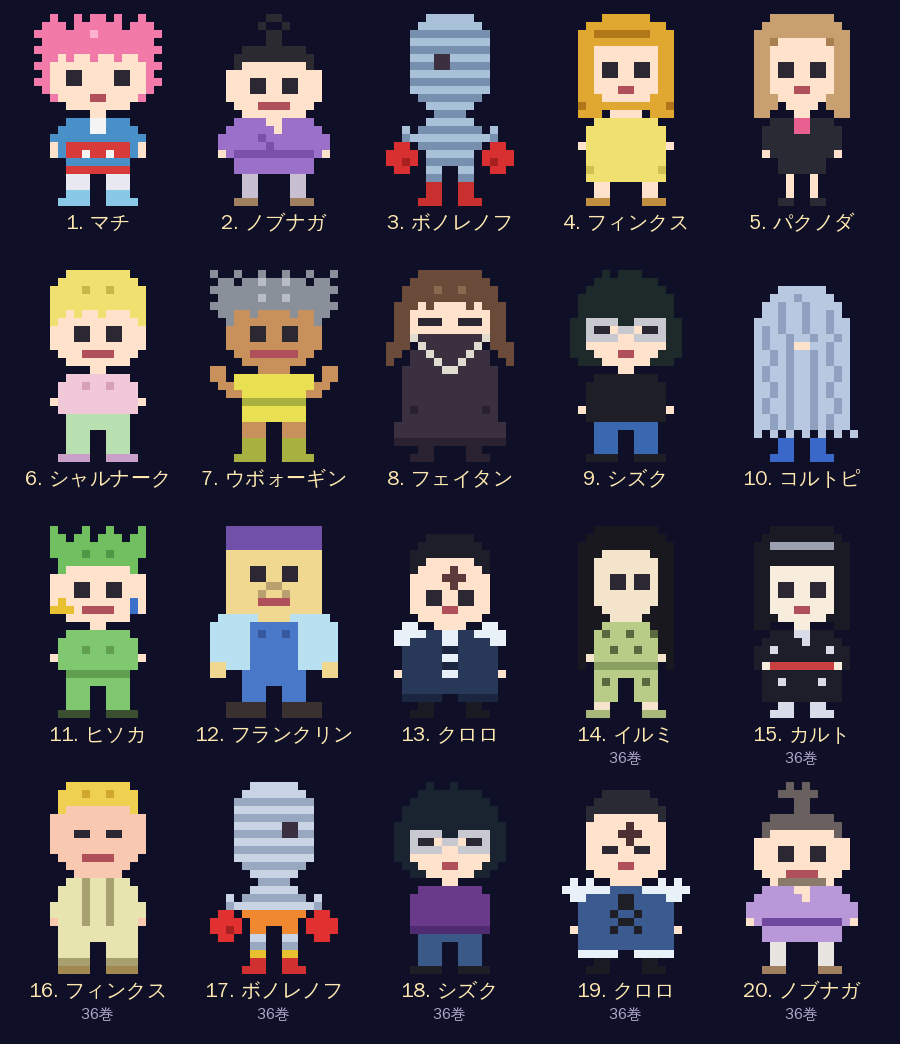
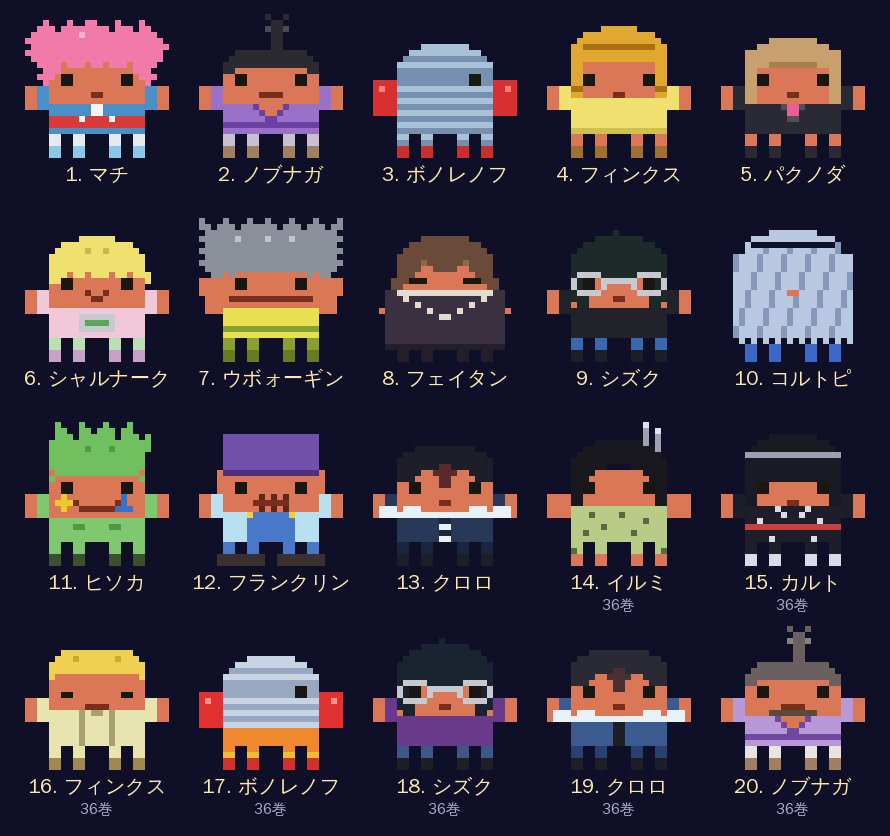
旅団ドット絵を作り直し：オレンジのキャラクター（Claude Code）の体に髪と服を着せて、20体に変身する形に。ページは押すとオレンジのキャラがとび上がって光り、下から上へ変身する（音つき・じゅんばんに へんしん・もとにもどる）。変身の GIF（henshin.gif）も追加
Claude-Session: https://claude.ai/code/session_01JaDYMhtLMkVrfWp8gdwK7r

diff --git a/chara/index.html b/chara/index.html
@@ -4,13 +4,13 @@
 <meta charset="utf-8">
 <meta name="viewport" content="width=device-width, initial-scale=1, viewport-fit=cover">
 <meta name="apple-mobile-web-app-capable" content="yes">
-<meta name="apple-mobile-web-app-title" content="旅団ドット絵">
-<title>旅団ドット絵</title>
-<link rel="apple-touch-icon" href="icon-180.png?v=1">
-<link rel="manifest" href="chara.webmanifest?v=1">
+<meta name="apple-mobile-web-app-title" content="旅団へんしん">
+<title>旅団へんしん</title>
+<link rel="apple-touch-icon" href="icon-180.png?v=2">
+<link rel="manifest" href="chara.webmanifest?v=2">
 <meta name="apple-mobile-web-app-status-bar-style" content="black-translucent">
 <meta name="theme-color" content="#05040d">
-<link rel="icon" href="icon-180.png?v=1">
+<link rel="icon" href="icon-180.png?v=2">
 <link rel="preconnect" href="https://fonts.googleapis.com">
 <link rel="preconnect" href="https://fonts.gstatic.com" crossorigin>
 <link href="https://fonts.googleapis.com/css2?family=DotGothic16&display=swap" rel="stylesheet">
@@ -22,87 +22,151 @@
   .wrap { max-width: 480px; margin: 0 auto; }
   h1 { font-size: 18px; font-weight: 400; margin: 0 0 4px; letter-spacing: .08em; text-align: center; }
   .sub { font-size: 11px; opacity: .6; margin: 0 0 14px; text-align: center; }
-  /* 大きく見る：えらんだ1体を大きく出す */
-  .stage { display: flex; flex-direction: column; align-items: center; padding: 14px 0 10px; background: linear-gradient(135deg, #2a1a30, #12101f); border: 2px solid var(--accent); border-radius: 10px; margin-bottom: 14px; }
-  .stage canvas { width: 128px; height: 192px; image-rendering: pixelated; }
-  .stage b { font-weight: 400; font-size: 17px; color: #ffcf8a; margin-top: 8px; }
-  .stage span { font-size: 11px; color: var(--dim); min-height: 1em; }
+  /* 変身する舞台：オレンジのキャラクターが光って、えらんだ1体に変わる */
+  .stage { display: flex; flex-direction: column; align-items: center; padding: 10px 0 12px; background: linear-gradient(135deg, #2a1a30, #12101f); border: 2px solid var(--accent); border-radius: 10px; margin-bottom: 14px; }
+  .stage canvas { width: 240px; height: 200px; image-rendering: pixelated; cursor: pointer; }
+  .stage b { font-weight: 400; font-size: 17px; color: #ffcf8a; margin-top: 4px; min-height: 1.3em; }
+  .stage span { font-size: 11px; color: var(--dim); min-height: 1.2em; }
+  .btns { display: flex; gap: 8px; margin-top: 10px; }
+  .btns button { font-family: inherit; font-size: 13px; border: none; border-radius: 99px; padding: 6px 14px; cursor: pointer; }
+  #auto { background: var(--accent); color: #05040d; }
+  #back { background: #2a2540; color: var(--fg); }
   /* 一覧：4つずつ並べる */
   .grid { display: grid; grid-template-columns: repeat(4, 1fr); gap: 12px 6px; padding: 14px 8px 10px; background: var(--card); border: 2px solid var(--line); border-radius: 10px; }
   .grid button { display: flex; flex-direction: column; align-items: center; gap: 4px; background: none; border: none; padding: 4px 0; color: var(--fg); font-family: inherit; cursor: pointer; border-radius: 8px; }
   .grid button.on { background: #2a2540; }
-  .grid canvas { width: 48px; height: 72px; image-rendering: pixelated; }
+  .grid canvas { width: 60px; height: 60px; image-rendering: pixelated; }
   .grid small { font-size: 10px; line-height: 1.2; text-align: center; }
   .grid small i { font-style: normal; color: var(--dim); display: block; }
 </style>
 </head>
 <body>
 <div class="wrap">
-  <h1>旅団ドット絵</h1>
-  <p class="sub">12巻・36巻の表紙から 20体（押すと大きく見られる）</p>
-  <div class="stage"><canvas id="big" width="16" height="26"></canvas><b id="bigName"></b><span id="bigVol"></span></div>
+  <h1>旅団へんしん</h1>
+  <p class="sub">オレンジのキャラクターが 12巻・36巻の表紙の20体に へんしん</p>
+  <div class="stage">
+    <canvas id="big" width="48" height="40"></canvas>
+    <b id="bigName"></b><span id="bigVol"></span>
+    <div class="btns"><button id="auto">じゅんばんに へんしん</button><button id="back">もとにもどる</button></div>
+  </div>
   <div class="grid" id="grid"></div>
 </div>
 <script>
-// 1文字＝1ドット（横16×縦24）。'.'＝透明、E＝目（まばたきする）
+// 1文字＝1ドット（横24×縦24）。オレンジのキャラクター（横12×縦8）を2倍にした体に、髪と服を着せている
+// '.'＝透明、O＝オレンジの体、E＝目（まばたきする）
+const MASCOT = {"p":{"O":"#d97757","E":"#1a1612"},"m":["........................","........................","........................","........................","........................","........................","........................","........................","....OOOOOOOOOOOOOOOO....","....OOOOOOOOOOOOOOOO....","....OOEEOOOOOOOOEEOO....","....OOEEOOOOOOOOEEOO....","OOOOOOOOOOOOOOOOOOOOOOOO","OOOOOOOOOOOOOOOOOOOOOOOO","OOOOOOOOOOOOOOOOOOOOOOOO","OOOOOOOOOOOOOOOOOOOOOOOO","....OOOOOOOOOOOOOOOO....","....OOOOOOOOOOOOOOOO....","....OOOOOOOOOOOOOOOO....","....OOOOOOOOOOOOOOOO....","....OO..OO....OO..OO....","....OO..OO....OO..OO....","....OO..OO....OO..OO....","....OO..OO....OO..OO...."]};
 const CH = [
-{"n":"マチ","v":12,"p":{"B":"#4a90c8","E":"#2b2733","F":"#8ac8e8","H":"#f27aa8","M":"#b0505a","P":"#e8e8f0","R":"#d83a3a","S":"#ffe2cc","W":"#f4f4f4","h":"#ffb0cc"},"m":["..H..H.HH.H..H..",".HHH.HHHHHH.HHH.","HHHHHHHhHHHHHHHH",".HHHHHHHHHHHHHH.","HHHHHHHHHHHHHHHH",".HHSHSSHSSHSSHH.","HHSSSSSSSSSSSSHH",".HSSEESSSSEESSH.","HHSSEESSSSEESSHH",".HSSSSSSSSSSSSH.","..HSSSSMMSSSSH..","....SSSSSSSS....",".......SS.......","....BBBWWBBB....","...BBBBWWBBBB...","..BBBBBBBBBBBB..","..SBRRRRRRRRBS..","..SBRRWRRWRRBS..","....BBBBBBBB....","....RRRRRRRR....","....PPP..PPP....","....PPP..PPP....","....FFF..FFF....","...FFFF..FFFF..."]},
-{"n":"ノブナガ","v":12,"p":{"B":"#9a70c8","E":"#2b2733","F":"#a08060","H":"#2a2a30","M":"#b0505a","P":"#c8c0d0","S":"#ffe2cc","b":"#7a50a8"},"m":[".......HH.......","......H..H......",".......HH.......",".......HH.......","....HHHHHHHH....","...HHHHHHHHHH...","...HSSSSSSSSH...","..SSSSSSSSSSSS..","..SSSEESSEESSS..","..SSSEESSEESSS..","..SSSSSSSSSSSS..","...SSSMMMMSSS...","....SSSSSSSS....","...BBBBSSBBBB...","..BBBBBBSBBBBB..",".BBBBBbBBBBBBBB.",".BBBBBBbBBBBBBB.",".SBbbbbbbbbbbBS.","...BBBBBBBBBB...","...BBBBBBBBBB...","....PP....PP....","....PP....PP....","....PP....PP....","...FFF....FFF..."]},
-{"n":"ボノレノフ","v":12,"p":{"F":"#c83030","O":"#3a3040","R":"#d83030","X":"#a8c0d8","r":"#a82020","x":"#7890b0"},"m":[".....XXXXXX.....","....XXXXXXXX....","...xxxxxxxxxx...","...XXXXXXXXXX...","...xxxxxxxxxx...","...XXXOOXXXXX...","...xxxOOxxxxx...","...XXXXXXXXXX...","...xxxxxxxxxx...","...XXXXXXXXXX...","....xxxxxxxx....",".....XXXXXX.....","......xxxx......",".....XXXXXX.....","..X.xxxxxxxx.X..","..xXXXXXXXXXXx..",".RR.xxxxxxxx.RR.","RRRR.XXXXXX.RRRR","RRrR.xxxxxx.RrRR",".RR..XX..XX..RR.",".....xx..xx.....",".....FF..FF.....",".....FF..FF.....","....FFF..FFF...."]},
-{"n":"フィンクス","v":12,"p":{"B":"#f0e070","E":"#2b2733","F":"#c09040","G":"#e0a830","M":"#b0505a","S":"#ffe2cc","b":"#d0c050","g":"#b07818"},"m":[".....GGGGGG.....","...GGGGGGGGGG...","..GGgggggggGGG..","..GGGGGGGGGGGG..","..GGSSSSSSSSGG..","..GGSSSSSSSSGG..","..GGSEESSEESGG..","..GGSEESSEESGG..","..GGSSSSSSSSGG..","..GGSSSMMSSSGG..","..GGGSSSSSSGGG..","..gGGGGGGGGGGg..","..GGG.SSSS.GGG..","....BBBBBBBB....","...BBBBBBBBBB...","...BBBBBBBBBB...","..SBBBBBBBBBBS..","...BBBBBBBBBB...","...BBBBBBBBBB...","...bBBBBBBBBb...","...BBBBBBBBBB...","....SS....SS....","....SS....SS....","...FFF....FFF..."]},
-{"n":"パクノダ","v":12,"p":{"B":"#2a2a34","E":"#2b2733","F":"#2a2a34","H":"#c8a070","M":"#b0505a","R":"#e86090","S":"#ffe2cc","h":"#a8804f"},"m":["....HHHHHHHH....","...HHHHHHHHHH...","..HHHHHHHHHHHH..","..HHhSSSSSShHH..","..HHSSSSSSSSHH..","..HHSSSSSSSSHH..","..HHSEESSEESHH..","..HHSEESSEESHH..","..HHSSSSSSSSHH..","..HHSSSMMSSSHH..","..HHHSSSSSSHHH..","..HHH.SSSS.HHH..","..HH...SS...HH..","....BBBRRBBB....","...BBBBRRBBBB...","...BBBBBBBBBB...","...BBBBBBBBBB...","...SBBBBBBBBS...",".....BBBBBB.....",".....BBBBBB.....","......S..S......","......S..S......","......S..S......",".....FF..FF....."]},
-{"n":"シャルナーク","v":12,"p":{"B":"#f0c8d8","E":"#2b2733","F":"#c8a0c8","H":"#f0e070","M":"#b0505a","P":"#b8e0b0","S":"#ffe2cc","b":"#d8a0b8","h":"#c8b848"},"m":["....HHHHHHHH....","...HHHHHHHHHH...","..HHHHhHHhHHHH..","..HHHHHHHHHHHH..","..HHHHHHHHHHHH..","..HHSHSSHSSSHH..","..HSSSSSSSSSSH..","..SSSEESSEESSS..","..SSSEESSEESSS..","..SSSSSSSSSSSS..","...SSSMMMMSSS...","....SSSSSSSS....",".......SS.......","....BBBBBBBB....","...BBBbBBbBBB...","...BBBBBBBBBB...","..SBBBBBBBBBBS..","...BBBBBBBBBB...","....PPPPPPPP....","....PPPPPPPP....","....PPP..PPP....","....PPP..PPP....","....PPP..PPP....","...FFFF..FFFF..."]},
-{"n":"ウボォーギン","v":12,"p":{"B":"#e8e050","E":"#2b2733","F":"#a8b040","H":"#8a909a","M":"#b0505a","S":"#c8905a","b":"#a8b040","h":"#b8bcc4"},"m":["H..H..H..H..H..H",".HH.HHhHHhHH.HH.","HHHHHHHHHHHHHHHH",".HHHHHhHHhHHHHH.","HHHHHHHHHHHHHHHH",".HHSSHSSSSHSSHH.","..HSSSSSSSSSSH..","..SSSEESSEESSS..","..SSSEESSEESSS..","..SSSSSSSSSSSS..","...SSMMMMMMSS...","....SSSSSSSS....","SS....SSSS....SS","SS.BBBBBBBBBB.SS",".SSBBBBBBBBBBSS.","..SSBBBBBBBBSS..","....bbbbbbbb....","....BBBBBBBB....","....BBBBBBBB....","....SSS..SSS....","....SSS..SSS....","....bbb..bbb....","....FFF..FFF....","...FFFF..FFFF..."]},
-{"n":"フェイタン","v":12,"p":{"B":"#3a3040","E":"#2b2733","F":"#2a2230","H":"#6a4a38","S":"#ffe2cc","W":"#e0dcd0","b":"#2a2230","h":"#8a6a50"},"m":["....HHHHHHHH....","...HHHHHHHHHH...","..HHHHhHHhHHHH..","..HHHHHHHHHHHH..",".HHHSHSSSSHSHHH.",".HHSSSSSSSSSSHH.",".HHSEEESSEEESHH.",".HHSSSSSSSSSSHH.",".HHWBBBBBBBBWHH.","HHH.WBBBBBBW.HHH","HH.BBWBBBBWBB.HH","H..BBBWBBWBBB..H","..BBBBBWWBBBBB..","..BBBBBBBBBBBB..","..BBBBBBBBBBBB..","..BBBBBBBBBBBB..","..BBBBBBBBBBBB..","..BbBBBBBBBBbB..","..BBBBBBBBBBBB..",".BBBBBBBBBBBBBB.",".BBBBBBBBBBBBBB.",".bbbbbbbbbbbbbb.","....FF....FF....","...FFF....FFF..."]},
-{"n":"シズク","v":12,"p":{"B":"#1e1e26","E":"#2b2733","F":"#1e1e26","G":"#c8c8d0","H":"#1e2a2a","M":"#b0505a","P":"#3a68b0","S":"#ffe2cc"},"m":[".....H.HHH......","....HHHHHHHH....","...HHHHHHHHHH...","..HHHHHHHHHHHH..","..HHHHHHHHHHHH..","..HHHHHHHHHHHH..",".HHGGGGHHGGGGHH.",".HHGEESGGSEEGHH.",".HHGGGGSSGGGGHH.",".HHSSSSSSSSSSHH.",".HHHSSSMMSSSHHH.","..HHHSSSSSSHHH..",".......SS.......","....BBBBBBBB....","...BBBBBBBBBB...","...BBBBBBBBBB...","...BBBBBBBBBB...","..SBBBBBBBBBBS..","...BBBBBBBBBB...","....PPPPPPPP....","....PPP..PPP....","....PPP..PPP....","....PPP..PPP....","...FFFF..FFFF..."]},
-{"n":"コルトピ","v":12,"p":{"F":"#3a68c8","H":"#b8c8e0","S":"#ffe2cc","h":"#90a0c0"},"m":["................","................",".....HHHHHH.....","....HHHhHHHH....","...HHhHHhHHHH...","...HHhHHhHHhH...","..HHHhHHhHHhHH..","..HhHhHHhHHhHH..","..HhHHhHHhHHhH..","..HhHHhSSHHhHH..","..HHhHhHHhHhHH..","..HHhHhHHhHhHH..","..HhHHhHHhHHhH..","..HhHHhHHhHHhH..","..HHhHhHHhHhHH..","..HHhHhHHhHhHH..","..HhHHhHHhHHhH..","..HhHHhHHhHHhH..","..HHhHhHHhHhHH..","..HHhHhHHhHhHH..","..H.H.H.H.H.H.H.",".....FF..FF.....",".....FF..FF.....","....FFF..FFF...."]},
-{"n":"ヒソカ","v":12,"p":{"B":"#80c870","E":"#2b2733","F":"#3a5030","H":"#70c060","M":"#b0505a","S":"#ffe2cc","T":"#3a70c8","Y":"#e8c030","b":"#60a050","h":"#509848"},"m":["..H...H..H...H..","..HH.HH.HHH.HH..","..HHHHHHHHHHHH..","..HHHHhHHhHHHH..","...HHHHHHHHHH...","...HSSSSSSSSH...","..SSSSSSSSSSSS..","..SSSEESSEESSS..","..SSSEESSEESSS..","..SYSSSSSSSSTS..","..YYYSMMMMSSTS..","....SSSSSSSS....",".......SS.......","....BBBBBBBB....","...BBBBBBBBBB...","...BBBbBBbBBB...","..SBBBBBBBBBBS..","...BBBBBBBBBB...","....bbbbbbbb....","....BBBBBBBB....","....BBB..BBB....","....BBB..BBB....","....BBB..BBB....","...FFFF..FFFF..."]},
-{"n":"フランクリン","v":12,"p":{"E":"#2b2733","F":"#3a3030","H":"#7050a8","J":"#b8e0f0","M":"#b0505a","P":"#4a78c8","S":"#f0d890","X":"#b8a070","p":"#3a58a0"},"m":["..HHHHHHHHHHHH..","..HHHHHHHHHHHH..","..HHHHHHHHHHHH..","..SSSSSSSSSSSS..","..SSSSSSSSSSSS..","..SSSEESSEESSS..","..SSSEESSEESSS..","..SSSSSXXSSSSS..","..SSSSXSSXSSSS..","..SSSSMMMMSSSS..","..SSSSSSSSSSSS..",".JJJJJSSSSJJJJJ.","JJJJJPPPPPPJJJJJ","JJJJJPpPPpPJJJJJ","JJJJJPPPPPPJJJJJ","JJJJJPPPPPPJJJJJ","JJJJJPPPPPPJJJJJ","SSJJJPPPPPPJJJSS","SS..PPPPPPPP..SS","....PPPPPPPP....","....PPP..PPP....","....PPP..PPP....","..FFFFF..FFFFF..","..FFFFF..FFFFF.."]},
-{"n":"クロロ","v":12,"p":{"B":"#283858","E":"#2b2733","F":"#1a1a22","H":"#1e1e2a","M":"#b0505a","S":"#ffe2cc","W":"#e8f0f8","X":"#5a3a3a","b":"#1a2640"},"m":["................",".....HHHHHH.....","....HHHHHHHH....","...HHHHHHHHHH...","...HHSSSSSSHH...","...HSSSSXSSSH...","...SSSSXXXSSS...","...SSSSSXSSSS...","...SSEESSEESS...","...SSEESSEESS...","...SSSSMMSSSS...","....SSSSSSSS....","..WW..SSSS..WW..",".WWWWBBWWBBWWWW.",".WWBBBBWWBBBBWW.","..BBBBBbbBBBBB..","..BBBBBWWBBBBB..","..BBBBBbbBBBBB..",".SBBBBBWWBBBBBS.","..BBBBBBBBBBBB..","..BBBBBBBBBBBB..","..bbbbb..bbbbb..","....FF....FF....","...FFF....FFF..."]},
-{"n":"イルミ","v":36,"p":{"B":"#b8cc88","E":"#2b2733","F":"#a8b878","H":"#18181e","S":"#f4e4cc","X":"#5a6a40","b":"#8aa060"},"m":["....HHHHHHHH....","...HHHHHHHHHH...","..HHHHHHHHHHHH..","..HHHSSSSSSHHH..","..HHSSSSSSSSHH..","..HHSSSSSSSSHH..","..HHSSEESEESHH..","..HHSSEESEESHH..","..HHSSSSSSSSHH..","..HHSSSSSSSSHH..","..HHHSSSSSSHHH..","..HHHHSSSSHHHH..","..HHHBBBBBBHHH..","..HHBXBBXBBXHH..","..HHBBBBBBBBHH..","..HHBBXBBXBBHH..","..HSBBBBBBBBSH..","..H.bbbbbbbb.H..","....BBBBBBBB....","....BXB..BXB....","....BBB..BBB....","....BBB..BBB....","....SS....SS....","...FFF....FFF..."]},
-{"n":"カルト","v":36,"p":{"B":"#1e1e2a","E":"#2b2733","F":"#d8dce8","H":"#1a1a24","M":"#b0505a","R":"#c84040","S":"#f8ecdc","X":"#d8dce8","h":"#9aa0b0"},"m":["....HHHHHHHH....","...HHHHHHHHHH...","..HHhhhhhhhhHH..","..HHHHHHHHHHHH..","..HHHHHHHHHHHH..","..HHSSSSSSSSHH..","..HHSSSSSSSSHH..","..HHSEESSEESHH..","..HHSEESSEESHH..","..HHSSSSSSSSHH..","..HHSSSMMSSSHH..","..HHHSSSSSSHHH..","..HH...SS...HH..","....BBBXXBBB....","...BBBBBXBBBB...","..BBXBBBBBBXBB..","..BBBBBBBBBBBB..","..BSRRRRRRRRSB..","...BBBBBBBBBB...","...BBXBBBBXBB...","...BBBBBBBBBB...","...BBBBBBBBBB...",".....FF..FF.....","....FFF..FFF...."]},
-{"n":"フィンクス","v":36,"p":{"B":"#e8e4b0","E":"#2b2733","F":"#a08850","H":"#f0d050","M":"#b0505a","S":"#f8c8b0","b":"#a8a070","h":"#d0a830"},"m":["....HHHHHHHH....","...HHHhHHhHHH...","...HHHHHHHHHH...","...HSSSSSSSSH...","..SSSSSSSSSSSS..","..SSSSSSSSSSSS..","..SSSEESSEESSS..","..SSSSSSSSSSSS..","..SSSSSSSSSSSS..","...SSSMMMMSSS...","....SSSSSSSS....",".....SSSSSS.....","....BBbBBbBB....","...BBBbBBbBBB...","...BBBbBBbBBB...","..BBBBbBBbBBBB..","..BBBBbBBbBBBB..","..SBBBbBBbBBBS..","...BBBBBBBBBB...","...BBBBBBBBBB...","...BBBB..BBBB...","...BBBB..BBBB...","...bbbb..bbbb...","...FFFF..FFFF..."]},
-{"n":"ボノレノフ","v":36,"p":{"F":"#e8c030","O":"#3a3040","P":"#f08830","R":"#e03030","X":"#c8d4e4","f":"#d03030","r":"#a82020","x":"#98a8c0"},"m":[".....XXXXXX.....","....XXXXXXXX....","...xxxxxxxxxx...","...XXXXXXXXXX...","...xxxxxxxxxx...","...XXXXXXOOXX...","...xxxxxxOOxx...","...XXXXXXXXXX...","...xxxxxxxxxx...","...XXXXXXXXXX...","....xxxxxxxx....",".....XXXXXX.....","......xxxx......",".....XXXXXX.....","..X.xxxxxxxx.X..","..xXXXXXXXXXXx..",".RR.PPPPPPPP.RR.","RRRR.PPPPPP.RRRR","RRrR.PP..PP.RRRR",".RR..XX..XX..RR.",".....xx..xx.....",".....FF..FF.....",".....ff..ff.....","....fff..fff...."]},
-{"n":"シズク","v":36,"p":{"B":"#6a3a8a","E":"#2b2733","F":"#1e1e26","G":"#c8c8d0","H":"#1a2430","M":"#b0505a","P":"#3a5888","S":"#ffe2cc","b":"#502a70"},"m":[".....H..H.......","....HHHHHHHH....","...HHHHHHHHHH...","..HHHHHHHHHHHH..","..HHHHHHHHHHHH..",".HHHHHHHHHHHHHH.",".HHGGGGHHGGGGHH.",".HHGEESGGSEEGHH.",".HHGGGGSSGGGGHH.",".HHSSSSSSSSSSHH.","..HHSSSMMSSSHH..","...HHSSSSSSHH...",".......SS.......","....BBBBBBBB....","...BBBBBBBBBB...","...BBBBBBBBBB...","...BBBBBBBBBB...","...BBBBBBBBBB...","...bbbbbbbbbb...","....PPPPPPPP....","....PPP..PPP....","....PPP..PPP....","....PPP..PPP....","...FFFF..FFFF..."]},
-{"n":"クロロ","v":36,"p":{"B":"#3a5a90","E":"#2b2733","F":"#1a1a22","H":"#2a2a34","K":"#1e1e26","M":"#b0505a","S":"#ffe2cc","W":"#e8f0f8","X":"#4a3030"},"m":["................",".....HHHHHH.....","....HHHHHHHH....","...HHHHHHHHHH...","...HSSSSSSSSH...","...SSSSSXSSSS...","...SSSSXXXSSS...","...SSSSSXSSSS...","...SSEESSEESS...","...SSSSSSSSSS...","...SSSSMMSSSS...","....SSSSSSSS....",".W.W..SSSS..W.W.","WWWWWWBBBBWWWWWW",".WWBBBBKKBBBBWW.","..BBBBBKKBBBBB..","..BBBBKBBKBBBB..","..BBBBBKKBBBBB..",".SBBBBKBBKBBBBS.","..BBBBBBBBBBBB..","..BBBBBBBBBBBB..","..WWWWW..WWWWW..","....FF....FF....","...FFF....FFF..."]},
-{"n":"ノブナガ","v":36,"p":{"B":"#b898d8","E":"#2b2733","F":"#a08060","H":"#6a6060","M":"#b0505a","P":"#e8e4e0","S":"#ffe2cc","X":"#8a7a6a","b":"#7048a0"},"m":["......H.H.......",".....HHHHH......",".......HH.......",".......HH.......","....HHHHHHHH....","...HHHHHHHHHH...","...HSSSSSSSSH...","..SSSSSSSSSSSS..","..SSSEESSEESSS..","..SSSEESSEESSS..","..SSSSSSSSSSSS..","...SSSMMMMSSS...","....SXXXXXXS....","...BBBBSSBBBB...","..BBBBBBSBBBBB..",".BBBBBBBBBBBBBB.",".BBBBBBBBBBBBBB.",".SBbbbbbbbbbbBS.","...BBBBBBBBBB...","...BBBBBBBBBB...","....PP....PP....","....PP....PP....","....PP....PP....","...FFF....FFF..."]}
+{"n":"マチ","v":12,"p":{"B":"#4a90c8","E":"#1a1612","F":"#8ac8e8","H":"#f27aa8","M":"#7a2e1e","O":"#d97757","P":"#e8e8f0","R":"#d83a3a","W":"#f4f4f4","h":"#ffb0cc"},"m":["........................","...H...H..HH...H...H....","..HHH.HHHHHHHH.HHH.HH...",".HHHHHHHHhHHHHHHHHHHHH..","HHHHHHHHHHHHHHHHHHHHHHH.",".HHHHHHHHHHHHHHHHHHHHHHH","HHHHHHHHHHHHHHHHHHHHHHH.",".HHHHHHHHHHHHHHHHHHHHHH.","..HHHHOHHHOHHOHHHOHHHH..","...HHHOOOOOOOOOOOOHHH...","..HHHOEEOOOOOOOOEEOHHH..","...HOOEEOOOOOOOOEEOOH...","OOBBOOOOOOOOOOOOOOOOBBOO","OOBBOOOOOOOMMOOOOOOOBBOO","OOBBOOOOOOOOOOOOOOOOBBOO","OOBBBBBBBBBWWBBBBBBBBBOO","....BBBBBBBWWBBBBBBB....","....RRRRRWRRRRWRRRRR....","....RRRRRRRRRRRRRRRR....","....BBBBBBBBBBBBBBBB....","....PP..PP....PP..PP....","....PP..PP....PP..PP....","....FF..FF....FF..FF....","....FF..FF....FF..FF...."]},
+{"n":"ノブナガ","v":12,"p":{"B":"#9a70c8","E":"#1a1612","F":"#a08060","H":"#2a2a30","M":"#7a2e1e","O":"#d97757","P":"#c8c0d0","b":"#6a40a0","h":"#4a4a55"},"m":["...........H..H.........","............HH..........","...........hHHh.........","............HH..........","............HH..........","............HH..........","......HHHHHHHHHHHH......",".....HHHHHHHHHHHHHH.....","....HHHHHHHHHHHHHHHH....","....HHOOOOOOOOOOOOHH....","....OOEEOOOOOOOOEEOO....","....OOEEOOOOOOOOEEOO....","OOBBOOOOOOOOOOOOOOOOBBOO","OOBBOOOOOOMMMMOOOOOOBBOO","OOBBOOOOOOOOOOOOOOOOBBOO","OOBBBBBBBbOOOObBBBBBBBOO","....BBBBBBbOObBBBBBB....","....BBBBBBBbbBBBBBBB....","....bbbbbbbbbbbbbbbb....","....BBBBBBBBBBBBBBBB....","....PP..PP....PP..PP....","....PP..PP....PP..PP....","....FF..FF....FF..FF....","....FF..FF....FF..FF...."]},
+{"n":"ボノレノフ","v":12,"p":{"E":"#1a1612","F":"#c83030","R":"#d83030","X":"#a8c0d8","r":"#ff8080","x":"#7890b0"},"m":["........................","........................","........................","........................","........................","........XXXXXXXX........","......XXXXXXXXXXXX......",".....xxxxxxxxxxxxxx.....","....XXXXXXXXXXXXXXXX....","....xxxxxxxxxxxxxxxx....","....xxxxxxxxxxxxEExx....","RRRRxxxxxxxxxxxxEExxRRRR","RrRRXXXXXXXXXXXXXXXXRRrR","RRRRxxxxxxxxxxxxxxxxRRRR","RRRRXXXXXXXXXXXXXXXXRRRR","RRRRxxxxxxxxxxxxxxxxRRRR","RRRRXXXXXXXXXXXXXXXXRRRR","....xxxxxxxxxxxxxxxx....","....XXXXXXXXXXXXXXXX....","....xxxxxxxxxxxxxxxx....","....XX..XX....XX..XX....","....xx..xx....xx..xx....","....FF..FF....FF..FF....","....FF..FF....FF..FF...."]},
+{"n":"フィンクス","v":12,"p":{"B":"#f0e070","E":"#1a1612","F":"#a07030","G":"#e0a830","M":"#7a2e1e","O":"#d97757","b":"#d0c050","g":"#a87010"},"m":["........................","........................",".........GGGGGG.........","......GGGGGGGGGGGG......",".....GGGGGGGGGGGGGG.....","....GGggggggggggggGG....","....GGGGGGGGGGGGGGGG....","....GGGGGGGGGGGGGGGG....","....GGOOOOOOOOOOOOGG....","....GGOOOOOOOOOOOOGG....","....GGEEOOOOOOOOEEGG....","....GGEEOOOOOOOOEEGG....","OOBBggOOOOOOOOOOOOggBBOO","OOBBGGOOOOOMMOOOOOGGBBOO","OOBBBBBBBBBBBBBBBBBBBBOO","OOBBBBBBBBBBBBBBBBBBBBOO","....BBBBBBBBBBBBBBBB....","....BBBBBBBBBBBBBBBB....","....BBBBBBBBBBBBBBBB....","....bbbbbbbbbbbbbbbb....","....OO..OO....OO..OO....","....OO..OO....OO..OO....","....FF..FF....FF..FF....","....FF..FF....FF..FF...."]},
+{"n":"パクノダ","v":12,"p":{"B":"#2a2a34","E":"#1a1612","H":"#c8a070","M":"#7a2e1e","O":"#d97757","R":"#e86090","b":"#50505c","h":"#a8804f"},"m":["........................","........................","........................","........................","........HHHHHHHH........","......HHHHHHHHHHHH......","....HHHHHHHHHHHHHHHH....","....HHHHHHHHHHHHHHHH....","....HHHHhhhhhhhhHHHH....","....HHOOOOOOOOOOOOHH....","....HHEEOOOOOOOOEEHH....","....HHEEOOOOOOOOEEHH....","OOBBHHOOOOOOOOOOOOHHBBOO","OOBBHHOOOOOMMOOOOOHHBBOO","OOBBHHOOOOOOOOOOOOHHBBOO","OOBBBBBBBBbRRbBBBBBBBBOO","....BBBBBBBRRBBBBBBB....","....BBBBBBBbbBBBBBBB....","....BBBBBBBBBBBBBBBB....","....BBBBBBBBBBBBBBBB....","....OO..OO....OO..OO....","....OO..OO....OO..OO....","....BB..BB....BB..BB....","....BB..BB....BB..BB...."]},
+{"n":"シャルナーク","v":12,"p":{"B":"#f0c8d8","E":"#1a1612","F":"#c8a0c8","G":"#58a858","H":"#f0e070","M":"#7a2e1e","O":"#d97757","P":"#b8e0b0","b":"#c8c8d0","h":"#c8b848"},"m":["........................","........................","........................",".........HHHHHH.........","......HHHHHHHHHHHH......",".....HHHHHhHHhHHHHH.....","....HHHHHHHHHHHHHHHH....","....HHHHHHHHHHHHHHHH....","....HHHHHHHHHHHHHHHH....","....HHHOHHOHHHOHHOHHH...","....HHEEOOOOOOOOEEOOH...","....OOEEOOOOOOOOEEOO....","OOBBOOOOOOMOOMOOOOOOBBOO","OOBBOOOOOOOMMOOOOOOOBBOO","OOBBOOOOOOOOOOOOOOOOBBOO","OOBBBBBBBBBBBBBBBBBBBBOO","....BBBBBbbbbbbBBBBB....","....BBBBBbGGGGbBBBBB....","....BBBBBbbbbbbBBBBB....","....BBBBBBBBBBBBBBBB....","....PP..PP....PP..PP....","....PP..PP....PP..PP....","....FF..FF....FF..FF....","....FF..FF....FF..FF...."]},
+{"n":"ウボォーギン","v":12,"p":{"B":"#e8e050","E":"#1a1612","F":"#6a7a20","G":"#88a030","H":"#8a909a","M":"#7a2e1e","O":"#d97757","h":"#c0c4cc"},"m":["H...H...H..H...H...H...H","HH.HHH.HHHHHH.HHH.HHH.HH",".HHHHHHHHHHHHHHHHHHHHHH.","HHHHHHhHHHHhHHHhHHHHHHHH",".HHHHHHHHHHHHHHHHHHHHHH.","HHHHHHHHHHHHHHHHHHHHHHHH",".HHHHHHHHHHHHHHHHHHHHHH.","HHHHHHHHHHHHHHHHHHHHHHHH",".HHHHHHHHHHHHHHHHHHHHHH.","..HHOHOOOOOOOOOOOOHOHH..","OOOOOOEEOOOOOOOOEEOOOOOO","OOOOOOEEOOOOOOOOEEOOOOOO","OOOOOOOOOOOOOOOOOOOOOOOO",".OOOOMMMMMMMMMMMMMMOOOO.",".OOOOOOOOOOOOOOOOOOOOOO.",".OOOBBBBBBBBBBBBBBBBOOO.","....BBBBBBBBBBBBBBBB....","....BBBBBBBBBBBBBBBB....","....GGGGGGGGGGGGGGGG....","....BBBBBBBBBBBBBBBB....","....GG..GG....GG..GG....","....GG..GG....GG..GG....","....FF..FF....FF..FF....","....FF..FF....FF..FF...."]},
+{"n":"フェイタン","v":12,"p":{"B":"#3a3040","E":"#1a1612","H":"#6a4a38","O":"#d97757","W":"#e0dcd0","b":"#241e2a","h":"#8a6a50"},"m":["........................","........................","........................","........HHHHHHHH........","......HHHHHHHHHHHH......",".....HHHHHHHHHHHHHH.....","....HHHHHHHHHHHHHHHH....","....HHHHhHHHHHHhHHHH....","....HHHHOOHHHHOOHHHH....","....HHHOOOOOOOOOOHHH....","...HHHEEEOOOOOOEEEHHH...","...HHOOOOOOOOOOOOOOHH...","..BBWWWWWWWWWWWWWWWWBB..","..BBBWBBBBBBBBBBBBWBBB..","..BBBBBWBBBBBBBBWBBBBB..",".OBBBBBBBWBBBBWBBBBBBBO.","..BBBBBBBBBWWBBBBBBBBB..","..BBBBBBBBBBBBBBBBBBBB..","..BBBBBBBBBBBBBBBBBBBB..","..BBBBBBBBBBBBBBBBBBBB..","..BBBBBBBBBBBBBBBBBBBB..","..bbbbbbbbbbbbbbbbbbbb..","....bb..bb....bb..bb....","....bb..bb....bb..bb...."]},
+{"n":"シズク","v":12,"p":{"B":"#22222a","E":"#1a1612","G":"#c8c8d0","H":"#1e2a2a","K":"#1e1e26","M":"#7a2e1e","O":"#d97757","P":"#3a68b0"},"m":["........................","........................","...........H............","........HHHHHHHH........","......HHHHHHHHHHHH......",".....HHHHHHHHHHHHHH.....","....HHHHHHHHHHHHHHHH....","....HHHHHHHHHHHHHHHH....","....HHHHHHHHHHHHHHHH....","....HGGGGHHHHHHGGGGH....","....GHEEOGGGGGGOEEHG....","....GHEEOGOOOOGOEEHG....","OOBBHGGGGOOOOOOGGGGHBBOO","OOBBHHHOOOOMMOOOOHHHBBOO","OOBBOHHOOOOOOOOOOHHOBBOO","OOBBBBBBBBBBBBBBBBBBBBOO","....BBBBBBBBBBBBBBBB....","....BBBBBBBBBBBBBBBB....","....BBBBBBBBBBBBBBBB....","....BBBBBBBBBBBBBBBB....","....PP..PP....PP..PP....","....PP..PP....PP..PP....","....KK..KK....KK..KK....","....KK..KK....KK..KK...."]},
+{"n":"コルトピ","v":12,"p":{"F":"#3a68c8","H":"#b8c8e0","O":"#d97757","h":"#8898b8"},"m":["........................","........................","........HHHHHHHH........",".....HHHHHHHHHHHHHH.....","....H..............h....","....HHHhHHHhHHHhHHHh....","..hHHHhHHHhHHHhHHHhHHH..","..hHHHhHHHhHHHhHHHhHHH..","..hHHHhHHHhHHHhHHHhHHH..","..HHHhHHHhHHHhHHHhHHHh..","..HHHhHHHhHHHhHHHhHHHh..","..HHHhHHHhHHHhHHHhHHHh..","..HHhHHHhHHOOHHHhHHHhH..","..HHhHHHhHHHhHHHhHHHhH..","..HHhHHHhHHHhHHHhHHHhH..","..HhHHHhHHHhHHHhHHHhHH..","..HhHHHhHHHhHHHhHHHhHH..","..HhHHHhHHHhHHHhHHHhHH..","..hHHHhHHHhHHHhHHHhHHH..","..hHHHhHHHhHHHhHHHhHHH..","...H.H.H.H.H.H.H.H.H.H..","....FF..FF....FF..FF....","....FF..FF....FF..FF....","....FF..FF....FF..FF...."]},
+{"n":"ヒソカ","v":12,"p":{"B":"#80c870","E":"#1a1612","F":"#3a5030","H":"#70c060","M":"#7a2e1e","O":"#d97757","T":"#3a70c8","Y":"#f0c830","b":"#509848","h":"#509848"},"m":[".....H...H...H...H......",".....HH..HH.HHH.HH......",".....HHH.HHHHHH.HHH.H...","....HHHHHHHHHHHHHHHHH...","....HHHHHHhHHHhHHHHHH...","....HHHHHHHHHHHHHHHH....","....HHHHHHHHHHHHHHHH....","....HHHHHHHHHHHHHHHH....","....OHHHHHHHHHHHHHHO....","....HOOOOOOOOOOOOOOH....","....OOEEOOOOOOOOEEOO....","....OOEEOOOOOOOOEEOO....","OOBBOOYOOOOOOOOOTOOOBBOO","OOBBOYYYMOOOOOOMTOOOBBOO","OOBBOOYOOMMMMMMTTTOOBBOO","OOBBOOOOOOOOOOOOOOOOBBOO","....BBBBBBBBBBBBBBBB....","....BBBBbbBBBBbbBBBB....","....BBBBBBBBBBBBBBBB....","....BBBBBBBBBBBBBBBB....","....BB..BB....BB..BB....","....BB..BB....BB..BB....","....FF..FF....FF..FF....","....FF..FF....FF..FF...."]},
+{"n":"フランクリン","v":12,"p":{"E":"#1a1612","F":"#3a3030","H":"#7050a8","J":"#b8e0f0","M":"#7a2e1e","O":"#d97757","P":"#4a78c8","X":"#5a2a1e","h":"#503080","p":"#f0d040"},"m":["........................","........................","....HHHHHHHHHHHHHHHH....","....HHHHHHHHHHHHHHHH....","....HHHHHHHHHHHHHHHH....","....HHHHHHHHHHHHHHHH....","....HHHHHHHHHHHHHHHH....","....HHHHHHHHHHHHHHHH....","...OhhhhhhhhhhhhhhhhO...","...OOOOOOOOOOOOOOOOOO...","...OOOEEOOOOOOOOEEOOO...","...OOOEEOOOOOOOOEEOOO...","OOJJOOOOOOXOXOXOOOOOJJOO","OOJJOOOOOMMMMMMOOOOOJJOO","OOJJOOOOOOXOXOXOOOOOJJOO","OOJJJJJJpPPPPPPpJJJJJJOO","....JJJJPPPPPPPPJJJJ....","....JJJJPPPPPPPPJJJJ....","....JJJJPPPPPPPPJJJJ....","....JJJJPPPPPPPPJJJJ....","....PP..PP....PP..PP....","....PP..PP....PP..PP....","...FFFFFFFF..FFFFFFFF...","...FFFFFFFF..FFFFFFFF..."]},
+{"n":"クロロ","v":12,"p":{"B":"#283858","E":"#1a1612","H":"#1e1e2a","K":"#1e1e26","M":"#7a2e1e","O":"#d97757","W":"#e8f0f8","X":"#5a2a2a","b":"#1a2640"},"m":["........................","........................","........................","........................",".......HHHHHHHHHH.......",".....HHHHHHHHHHHHHH.....","....HHHHHHHHHHHHHHHH....","....HHHHHHHXXHHHHHHH....","....HHHHOOXXXXOOHHHH....","....HHHOOOOXXOOOOHHH....","....OOEEOOOXXOOOEEOO....","....OOEEOOOOOOOOEEOO....","OOBBOOOOOOOOOOOOOOOOBBOO","OOBBOOOOOOOMMOOOOOOOBBOO","OWWWOWWWOOOOOOOOWWWOWWWO","OWWWWWWWWWWWWWWWWWWWWWWO","....BBBBBBBbbBBBBBBB....","....BBBBBBBWWBBBBBBB....","....BBBBBBBbbBBBBBBB....","....BBBBBBBWWBBBBBBB....","....bb..bb....bb..bb....","....bb..bb....bb..bb....","....KK..KK....KK..KK....","....KK..KK....KK..KK...."]},
+{"n":"イルミ","v":36,"p":{"B":"#b8cc88","E":"#1a1612","H":"#18181e","N":"#a0a0b0","O":"#d97757","X":"#5a6a40","n":"#e0e0f0"},"m":["................n.......","................N.n.....","................N.N.....","........HHHHHHHHN.N.....","......HHHHHHHHHHHHN.....",".....HHHHHHHHHHHHHH.....","....HHHHHHHHHHHHHHHH....","....HHHHHH....HHHHHH....","....HHHHOOOOOOOOHHHH....","....HHHOOOOOOOOOOHHH....","....HHEEOOOOOOOOEEHH....","....HHEEOOOOOOOOEEHH....","OOOOHHOOOOOOOOOOOOHHOOOO","OOOOHHOOOOOOOOOOOOHHOOOO","OOOOBBBBBBBBBBBBBBBBOOOO","OOOOBBBXBBBBXBBBBBBBOOOO","....BBBBBBBBBBBBXBBB....","....BBBBBXBBBBBBBBBB....","....BBXBBBBBBBXBBBBB....","....BBBBBBBBBBBBBBBB....","....BB..BB....BB..BB....","....XB..BB....BB..BX....","....OO..OO....OO..OO....","....OO..OO....OO..OO...."]},
+{"n":"カルト","v":36,"p":{"B":"#1e1e2a","E":"#1a1612","H":"#1a1a24","M":"#7a2e1e","O":"#d97757","R":"#c84040","X":"#d8dce8","h":"#9aa0b0"},"m":["........................","........................","........HHHHHHHH........","......HHHHHHHHHHHH......",".....HHHHHHHHHHHHHH.....","....hhhhhhhhhhhhhhhh....","....HHHHHHHHHHHHHHHH....","....HHHHHHHHHHHHHHHH....","....HHHHHHHHHHHHHHHH....","....HHHHHHHHHHHHHHHH....","....HHEEOOOOOOOOEEHH....","....HHEEOOOOOOOOEEHH....","OOBBHHOOOOOOOOOOOOHHBBOO","OOBBHHOOOOOMMOOOOOHHBBOO","OOBBBBBBBXBBBBXBBBBBBBOO","OOBBBBBBBBXBBXBBBBBBBBOO","....BBXBBBBBBBBBXBBB....","....RRRRRRRRRRRRRRRR....","....BBBBBBBBBBBBBBBB....","....BBBBXBBBBBBXBBBB....","....BB..BB....BB..BB....","....BB..BB....BB..BB....","....XX..XX....XX..XX....","....XX..XX....XX..XX...."]},
+{"n":"フィンクス","v":36,"p":{"B":"#e8e4b0","E":"#1a1612","F":"#a08850","H":"#f0d050","M":"#7a2e1e","O":"#d97757","b":"#a8a070","h":"#d0a830"},"m":["........................","........................","........................","........................","......HHHHHHHHHHHH......",".....HHHhHHHHHHhHHH.....","....HHHHHHHHHHHHHHHH....","....HHHHHHHHHHHHHHHH....","....HOOOOOOOOOOOOOOH....","....OOOOOOOOOOOOOOOO....","....OOOOOOOOOOOOOOOO....","....OOEEOOOOOOOOEEOO....","OOBBOOOOOOOOOOOOOOOOBBOO","OOBBOOOOOOMMMMOOOOOOBBOO","OOBBBBBBBbBbbBbBBBBBBBOO","OOBBBBBBBbBBBBbBBBBBBBOO","....BBBBBbBBBBbBBBBB....","....BBBBBbBBBBbBBBBB....","....BBBBBbBBBBbBBBBB....","....BBBBBbBBBBbBBBBB....","....BB..BB....BB..BB....","....BB..BB....BB..BB....","....FF..FF....FF..FF....","....FF..FF....FF..FF...."]},
+{"n":"ボノレノフ","v":36,"p":{"E":"#1a1612","F":"#d03030","P":"#f08830","R":"#e03030","X":"#c8d4e4","Y":"#e8c030","r":"#ff9090","x":"#98a8c0"},"m":["........................","........................","........................","........................","........................","........XXXXXXXX........","......XXXXXXXXXXXX......",".....xxxxxxxxxxxxxx.....","....XXXXXXXXXXXXXXXX....","....xxxxxxxxxxxxxxxx....","....xxxxxxxxxxxxEExx....","RRRRxxxxxxxxxxxxEExxRRRR","RrRRXXXXXXXXXXXXXXXXRRrR","RRRRxxxxxxxxxxxxxxxxRRRR","RRRRXXXXXXXXXXXXXXXXRRRR","RRRRxxxxxxxxxxxxxxxxRRRR","RRRRXXXXXXXXXXXXXXXXRRRR","....PPPPPPPPPPPPPPPP....","....PPPPPPPPPPPPPPPP....","....PPPPPPPPPPPPPPPP....","....PP..PP....PP..PP....","....YY..YY....YY..YY....","....FF..FF....FF..FF....","....FF..FF....FF..FF...."]},
+{"n":"シズク","v":36,"p":{"B":"#6a3a8a","E":"#1a1612","G":"#c8c8d0","H":"#1a2430","K":"#1e1e26","M":"#7a2e1e","O":"#d97757","P":"#3a5888"},"m":["........................","........................","...........H............","........HHHHHHHH........","......HHHHHHHHHHHH......",".....HHHHHHHHHHHHHH.....","....HHHHHHHHHHHHHHHH....","....HHHHHHHHHHHHHHHH....","....HHHHHHHHHHHHHHHH....","....HGGGGHHHHHHGGGGH....","....GHEEOGGGGGGOEEHG....","....GHEEOGOOOOGOEEHG....","OOBBHGGGGOOOOOOGGGGHBBOO","OOBBHHHOOOOMMOOOOHHHBBOO","OOBBOHHOOOOOOOOOOHHOBBOO","OOBBBBBBBBBBBBBBBBBBBBOO","....BBBBBBBBBBBBBBBB....","....BBBBBBBBBBBBBBBB....","....BBBBBBBBBBBBBBBB....","....BBBBBBBBBBBBBBBB....","....PP..PP....PP..PP....","....PP..PP....PP..PP....","....KK..KK....KK..KK....","....KK..KK....KK..KK...."]},
+{"n":"クロロ","v":36,"p":{"B":"#3a5a90","E":"#1a1612","H":"#2a2a34","K":"#1e1e26","M":"#7a2e1e","O":"#d97757","W":"#e8f0f8","X":"#4a3030","b":"#2a4070"},"m":["........................","........................","........................","........................",".......HHHHHHHHHH.......",".....HHHHHHHHHHHHHH.....","....HHHHHHHHHHHHHHHH....","....HHHHHHHXXHHHHHHH....","....HHHHOOXXXXOOHHHH....","....HHHOOOOXXOOOOHHH....","....OOEEOOOXXOOOEEOO....","....OOEEOOOOOOOOEEOO....","OOBBOOOOOOOOOOOOOOOOBBOO","OOBBOOOOOOOMMOOOOOOOBBOO","OWWWOWWWOOOOOOOOWWWOWWWO","OWWWWWWWWWWWWWWWWWWWWWWO","....BBBBBBBKKBBBBBBB....","....BBBBBBBKKBBBBBBB....","....BBBBBBBKKBBBBBBB....","....BBBBBBBKKBBBBBBB....","....bb..bb....bb..bb....","....bb..bb....bb..bb....","....KK..KK....KK..KK....","....KK..KK....KK..KK...."]},
+{"n":"ノブナガ","v":36,"p":{"B":"#b898d8","E":"#1a1612","F":"#a08060","H":"#6a6060","M":"#7a2e1e","O":"#d97757","P":"#e8e4e0","X":"#5a4a3a","b":"#7048a0","h":"#8a8080"},"m":["...........H..H.........","............HH..........","...........hHHh.........","............HH..........","............HH..........","............HH..........","......HHHHHHHHHHHH......",".....HHHHHHHHHHHHHH.....","....HHHHHHHHHHHHHHHH....","....HHOOOOOOOOOOOOHH....","....OOEEOOOOOOOOEEOO....","....OOEEOOOOOOOOEEOO....","OOBBOOOOOOOOOOOOOOOOBBOO","OOBBOOOOOOMMMMOOOOOOBBOO","OOBBOOOOXXXXXXXXOOOOBBOO","OOBBBBBBBbOOOObBBBBBBBOO","....BBBBBBbOObBBBBBB....","....BBBBBBBbbBBBBBBB....","....bbbbbbbbbbbbbbbb....","....BBBBBBBBBBBBBBBB....","....PP..PP....PP..PP....","....PP..PP....PP..PP....","....FF..FF....FF..FF....","....FF..FF....FF..FF...."]}
 ];
 
-// まばたき：目の上の段をはだの色にして、下の段だけ残す
-function draw(ctx, c, blink, hop) {
-  ctx.clearRect(0, 0, 16, 26);
-  c.m.forEach((row, y) => [...row].forEach((ch, x) => {
-    if (ch === '.') return;
-    let col = c.p[ch];
-    if (ch === 'E' && blink && c.m[y + 1] && c.m[y + 1][x] === 'E') col = c.p.S || col;
-    ctx.fillStyle = col; ctx.fillRect(x, y + 2 - hop, 1, 1);
-  }));
+// まばたき：目の上の段を、その下の色（体の色）にする
+function px(c, x, y, blink) {
+  const ch = c.m[y][x];
+  if (ch === '.') return null;
+  if (ch === 'E' && blink && c.m[y + 1] && c.m[y + 1][x] === 'E') return c.p.O;
+  return c.p[ch];
 }
-const grid = document.getElementById('grid'), big = document.getElementById('big').getContext('2d');
+function drawAt(ctx, c, ox, oy, blink, rowFrom = 0, rowTo = 24) {
+  for (let y = rowFrom; y < rowTo; y++) for (let x = 0; x < 24; x++) {
+    const col = px(c, x, y, blink); if (!col) continue;
+    ctx.fillStyle = col; ctx.fillRect(ox + x, oy + y, 1, 1);
+  }
+}
+const grid = document.getElementById('grid'), cv = document.getElementById('big'), big = cv.getContext('2d');
 const cells = CH.map((c, i) => {
   const b = document.createElement('button');
-  const cv = document.createElement('canvas'); cv.width = 16; cv.height = 26;
-  b.append(cv);
+  const g = document.createElement('canvas'); g.width = 24; g.height = 24; b.append(g);
   const s = document.createElement('small'); s.textContent = c.n;
   if (c.v === 36) { const v = document.createElement('i'); v.textContent = '36巻'; s.append(v); }
-  b.append(s);
-  b.onclick = () => pick(i);
+  b.append(s); b.onclick = () => { stopAuto(); henshin(i); };
   grid.append(b);
-  return { b, ctx: cv.getContext('2d'), off: Math.random() * 3 };
+  return { b, ctx: g.getContext('2d'), off: Math.random() * 3 };
 });
-let cur = 0, jumpAt = -9;
-function pick(i) {
-  cur = i; jumpAt = performance.now() / 1000;
-  cells.forEach((c, j) => c.b.classList.toggle('on', j === i));
-  document.getElementById('bigName').textContent = CH[i].n;
-  document.getElementById('bigVol').textContent = CH[i].v === 36 ? '36巻のすがた' : '12巻';
+
+// ---------- へんしんの音（押したときだけ鳴らす） ----------
+let ac = null;
+function tone(f, at, dur, type, vol, f2) {
+  const o = ac.createOscillator(), g = ac.createGain(), t0 = ac.currentTime + at;
+  o.type = type; o.frequency.setValueAtTime(f, t0); if (f2) o.frequency.exponentialRampToValueAtTime(f2, t0 + dur);
+  g.gain.setValueAtTime(vol, t0); g.gain.exponentialRampToValueAtTime(.0001, t0 + dur);
+  o.connect(g).connect(ac.destination); o.start(t0); o.stop(t0 + dur + .02);
 }
-pick(0);
+function sfx() {
+  try {
+    ac = ac || new (window.AudioContext || window.webkitAudioContext)(); if (ac.state === 'suspended') ac.resume();
+    tone(220, 0, .35, 'square', .04, 880);                                   // ぴょん
+    [784, 988, 1175, 1568].forEach((f, i) => tone(f, .4 + i * .06, .25, 'triangle', .06)); // きらきら
+    [523, 659, 784, 1047].forEach((f, i) => tone(f, .9 + i * .05, .5, 'square', .025));   // じゃーん
+  } catch (e) {}
+}
+
+// ---------- へんしん ----------
+// 0〜0.4秒：オレンジのキャラがとび上がる → 0.4〜1.0秒：光って、下から上へ服と髪が変わる → 着地
+let cur = -1, startAt = -9, prev = -1;
+function henshin(i) {
+  prev = cur; cur = i; startAt = performance.now() / 1000; sfx();
+  cells.forEach((c, j) => c.b.classList.toggle('on', j === i));
+  document.getElementById('bigName').textContent = i < 0 ? '' : CH[i].n;
+  document.getElementById('bigVol').textContent = i < 0 ? 'おして へんしん！' : CH[i].v === 36 ? '36巻のすがた' : '12巻';
+}
+cv.onclick = () => { stopAuto(); henshin((cur + 1) % CH.length); };
+document.getElementById('back').onclick = () => { stopAuto(); if (cur >= 0) henshin(-1); };
+let autoT = null;
+function stopAuto() { if (autoT) { clearInterval(autoT); autoT = null; document.getElementById('auto').textContent = 'じゅんばんに へんしん'; } }
+document.getElementById('auto').onclick = () => {
+  if (autoT) return stopAuto();
+  henshin((cur + 1) % CH.length);
+  autoT = setInterval(() => henshin((cur + 1) % CH.length), 2600);
+  document.getElementById('auto').textContent = 'とめる';
+};
+document.getElementById('bigVol').textContent = 'おして へんしん！';
+
+const sparks = [...Array(14)].map((_, i) => ({ a: i / 14 * 6.283, r: 10 + (i % 3) * 3 }));
 function frame() {
   const t = performance.now() / 1000;
-  cells.forEach((c, i) => draw(c.ctx, CH[i], (t + c.off) % 3.2 > 3.05, 0));
-  const dt = t - jumpAt, hop = dt < .5 ? Math.round(Math.sin(dt / .5 * Math.PI) * 2) : (Math.floor(t * 2) % 2);
-  draw(big, CH[cur], t % 3.2 > 3.05, hop);
+  cells.forEach((c, i) => { c.ctx.clearRect(0, 0, 24, 24); drawAt(c.ctx, CH[i], 0, 0, (t + c.off) % 3.2 > 3.05); });
+  big.clearRect(0, 0, 48, 40);
+  const dt = t - startAt, blink = t % 3.2 > 3.05, ox = 12, base = 14;
+  const from = prev < 0 ? MASCOT : CH[prev], to = cur < 0 ? MASCOT : CH[cur];
+  if (dt < 1.25) {
+    // とび上がって、光りながら変わる
+    const hop = dt < .4 ? -Math.round(Math.sin(dt / .4 * Math.PI / 2) * 10) : dt < 1.0 ? -10 : -Math.round((1 - (dt - 1.0) / .25) * 10);
+    const k = Math.min(1, Math.max(0, (dt - .4) / .6)), line = Math.round(24 - k * 25); // この行より下はもう変わった
+    drawAt(big, from, ox, base + hop, false, 0, Math.max(0, line));
+    drawAt(big, to, ox, base + hop, false, Math.max(0, line + 1), 24);
+    if (dt > .4 && dt < 1.0) {
+      big.fillStyle = '#fff6c8'; big.fillRect(ox - 2, base + hop + line, 28, 1);
+      big.globalAlpha = .18 * Math.sin(k * Math.PI); big.fillStyle = '#ffffff'; big.fillRect(0, 0, 48, 40); big.globalAlpha = 1;
+      sparks.forEach((s, i) => {
+        const a = s.a + dt * 5, r = s.r + k * 6;
+        big.fillStyle = i % 2 ? '#ffe08a' : '#ffffff';
+        const sx = Math.round(24 + Math.cos(a) * r), sy = Math.round(base + hop + 12 + Math.sin(a) * r * .8);
+        big.fillRect(sx, sy, 1, 1); if (i % 3 === 0) { big.fillRect(sx - 1, sy, 3, 1); big.fillRect(sx, sy - 1, 1, 3); }
+      });
+    }
+  } else {
+    const bob = Math.floor(t * 2) % 2 ? -1 : 0;
+    drawAt(big, to, ox, base + bob, blink);
+  }
   requestAnimationFrame(frame);
 }
 frame();
